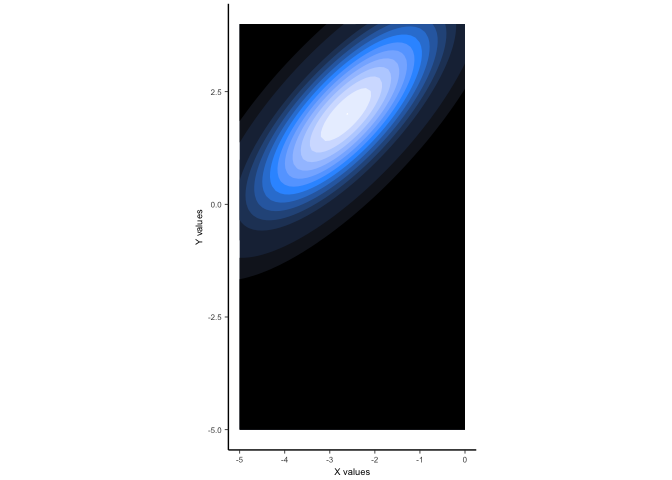
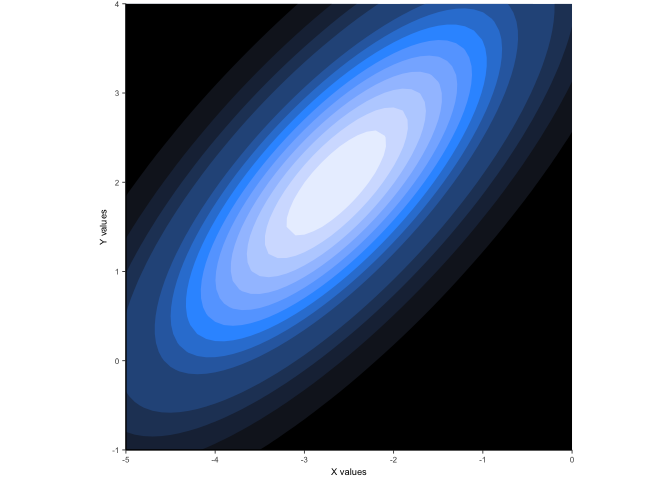
revise example plot limits

diff --git a/README.md b/README.md
@@ -40,7 +40,7 @@ data(gaussplot_sample_data)
 ## Generate a grid of x- and y- values on which to predict
 grid <-
   expand.grid(X_values = seq(from = -5, to = 0, by = 0.1),
-              Y_values = seq(from = -5, to = 4, by = 0.1))
+              Y_values = seq(from = -1, to = 4, by = 0.1))
 
 ## Predict the values using predict_gaussian_2D
 gauss_data <-
@@ -76,7 +76,6 @@ levelplot(
 ## metR::geom_contour_fill() is used to draw the contours
 library(ggplot2); library(metR)
 ggplot_gaussian_2D(gauss_data)
-#> Coordinate system already present. Adding new coordinate system, which will replace the existing one.
 ```
 
 <img src="man/figures/README-example-2.png" width="100%" />
